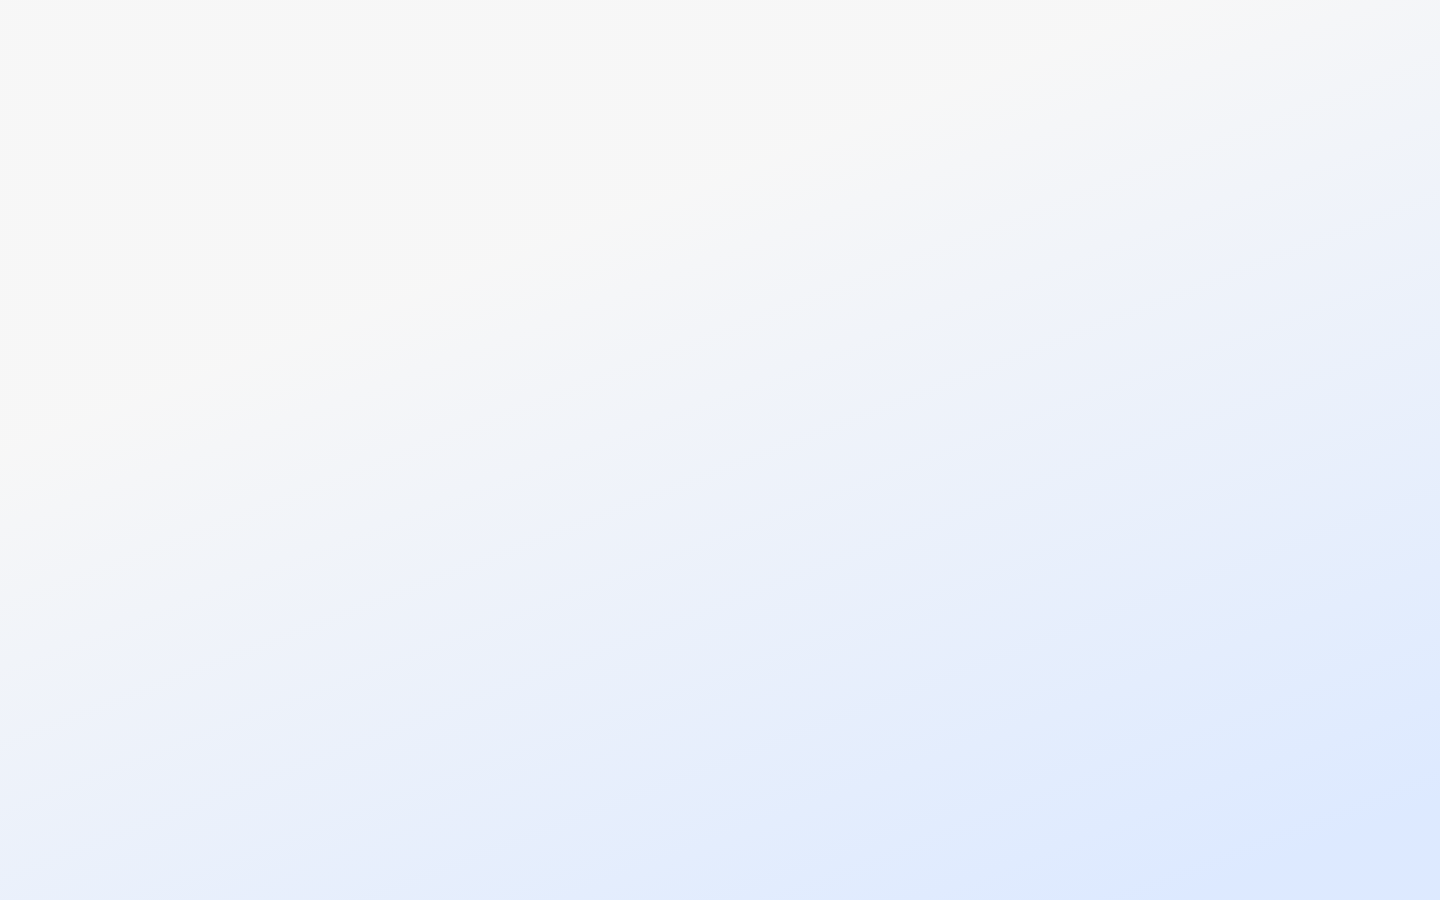
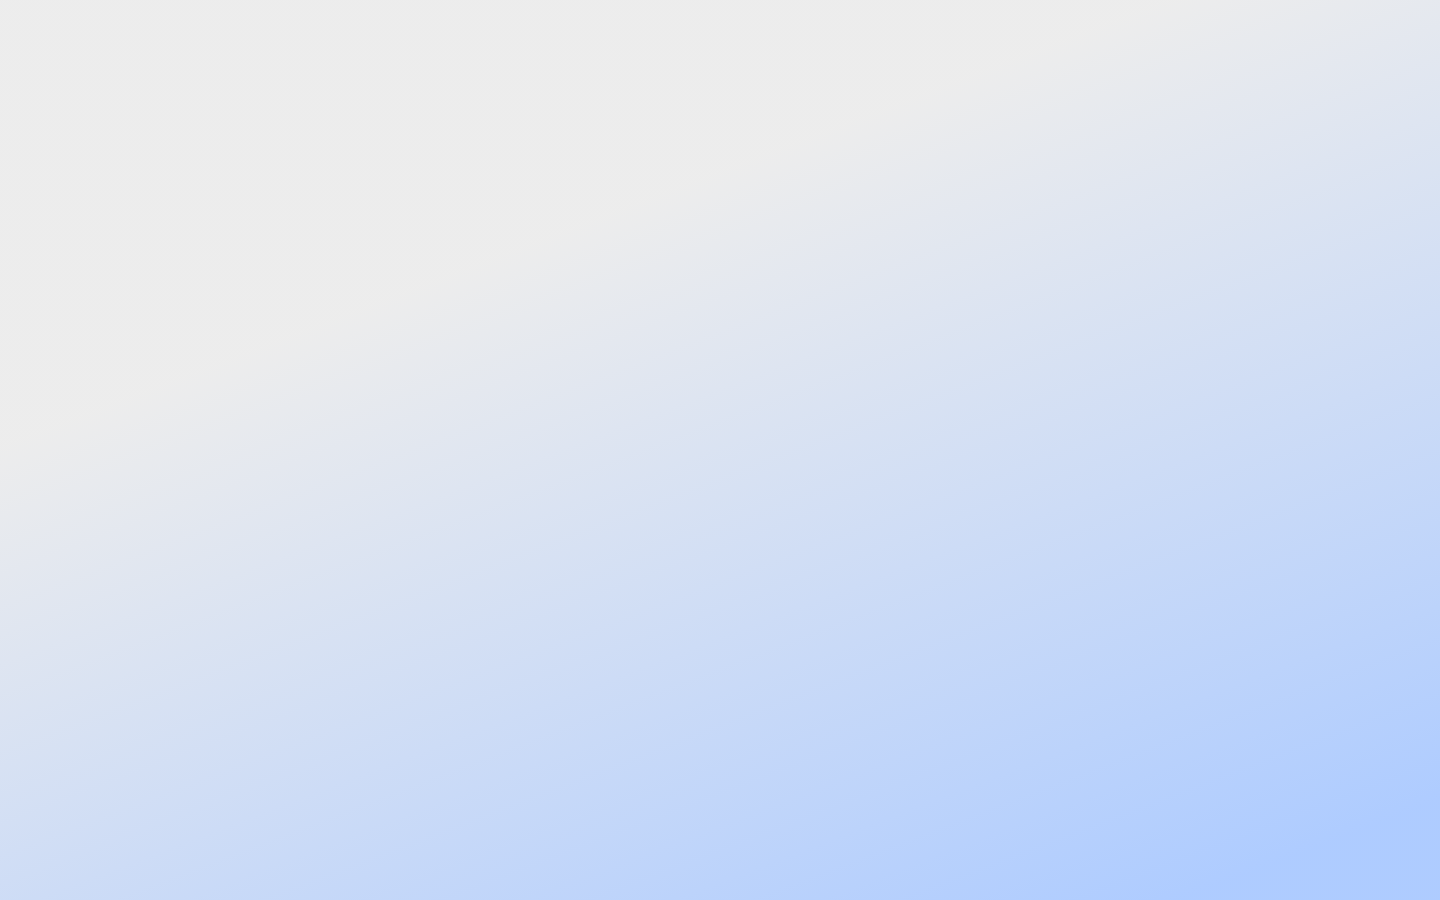
revisi

diff --git a/src/GUI/main_form.java b/src/GUI/main_form.java
@@ -272,6 +272,7 @@ public class main_form extends javax.swing.JFrame {
         field_ket = new javax.swing.JTextArea();
         btn_update = new javax.swing.JButton();
         btn_delete = new javax.swing.JButton();
+        jLabel1 = new javax.swing.JLabel();
 
         setDefaultCloseOperation(javax.swing.WindowConstants.EXIT_ON_CLOSE);
         getContentPane().setLayout(new org.netbeans.lib.awtextra.AbsoluteLayout());
@@ -800,43 +801,43 @@ public class main_form extends javax.swing.JFrame {
 
         field_id.setFont(new java.awt.Font("Consolas", 0, 18)); // NOI18N
         field_id.setEnabled(false);
-        edit_rekam.add(field_id, new org.netbeans.lib.awtextra.AbsoluteConstraints(160, 380, 160, -1));
+        edit_rekam.add(field_id, new org.netbeans.lib.awtextra.AbsoluteConstraints(260, 380, 160, -1));
 
         jLabel2.setFont(new java.awt.Font("Consolas", 1, 20)); // NOI18N
         jLabel2.setText("ID");
-        edit_rekam.add(jLabel2, new org.netbeans.lib.awtextra.AbsoluteConstraints(100, 380, -1, 30));
+        edit_rekam.add(jLabel2, new org.netbeans.lib.awtextra.AbsoluteConstraints(200, 380, -1, 30));
 
         jComboBox1.setFont(new java.awt.Font("Consolas", 1, 18)); // NOI18N
         jComboBox1.setModel(new javax.swing.DefaultComboBoxModel(new String[] { "Item 1", "Item 2", "Item 3", "Item 4" }));
-        edit_rekam.add(jComboBox1, new org.netbeans.lib.awtextra.AbsoluteConstraints(650, 470, 280, -1));
+        edit_rekam.add(jComboBox1, new org.netbeans.lib.awtextra.AbsoluteConstraints(830, 470, 280, -1));
 
         jLabel3.setFont(new java.awt.Font("Consolas", 1, 20)); // NOI18N
         jLabel3.setText("Deskripsi");
-        edit_rekam.add(jLabel3, new org.netbeans.lib.awtextra.AbsoluteConstraints(30, 470, -1, 30));
+        edit_rekam.add(jLabel3, new org.netbeans.lib.awtextra.AbsoluteConstraints(130, 470, -1, 30));
 
         jLabel4.setFont(new java.awt.Font("Consolas", 1, 20)); // NOI18N
         jLabel4.setText("Keterangan");
-        edit_rekam.add(jLabel4, new org.netbeans.lib.awtextra.AbsoluteConstraints(20, 610, -1, 30));
+        edit_rekam.add(jLabel4, new org.netbeans.lib.awtextra.AbsoluteConstraints(120, 610, -1, 30));
 
         field_jenis.setFont(new java.awt.Font("Consolas", 0, 18)); // NOI18N
         field_jenis.setEnabled(false);
-        edit_rekam.add(field_jenis, new org.netbeans.lib.awtextra.AbsoluteConstraints(650, 380, 160, -1));
+        edit_rekam.add(field_jenis, new org.netbeans.lib.awtextra.AbsoluteConstraints(830, 380, 160, -1));
 
         jLabel5.setFont(new java.awt.Font("Consolas", 1, 20)); // NOI18N
         jLabel5.setText("Tindakan");
-        edit_rekam.add(jLabel5, new org.netbeans.lib.awtextra.AbsoluteConstraints(520, 470, -1, 30));
+        edit_rekam.add(jLabel5, new org.netbeans.lib.awtextra.AbsoluteConstraints(700, 470, -1, 30));
 
         jLabel6.setFont(new java.awt.Font("Consolas", 1, 20)); // NOI18N
         jLabel6.setText("Jenis");
-        edit_rekam.add(jLabel6, new org.netbeans.lib.awtextra.AbsoluteConstraints(550, 380, -1, 30));
+        edit_rekam.add(jLabel6, new org.netbeans.lib.awtextra.AbsoluteConstraints(730, 380, -1, 30));
 
         jLabel7.setFont(new java.awt.Font("Consolas", 1, 20)); // NOI18N
         jLabel7.setText("Obat");
-        edit_rekam.add(jLabel7, new org.netbeans.lib.awtextra.AbsoluteConstraints(570, 570, -1, 30));
+        edit_rekam.add(jLabel7, new org.netbeans.lib.awtextra.AbsoluteConstraints(750, 570, -1, 30));
 
         jComboBox2.setFont(new java.awt.Font("Consolas", 1, 18)); // NOI18N
         jComboBox2.setModel(new javax.swing.DefaultComboBoxModel(new String[] { "Item 1", "Item 2", "Item 3", "Item 4" }));
-        edit_rekam.add(jComboBox2, new org.netbeans.lib.awtextra.AbsoluteConstraints(650, 570, 280, -1));
+        edit_rekam.add(jComboBox2, new org.netbeans.lib.awtextra.AbsoluteConstraints(830, 570, 280, -1));
 
         field_desc.setColumns(20);
         field_desc.setFont(new java.awt.Font("Consolas", 0, 18)); // NOI18N
@@ -844,7 +845,7 @@ public class main_form extends javax.swing.JFrame {
         field_desc.setRows(3);
         jScrollPane7.setViewportView(field_desc);
 
-        edit_rekam.add(jScrollPane7, new org.netbeans.lib.awtextra.AbsoluteConstraints(160, 470, 270, 90));
+        edit_rekam.add(jScrollPane7, new org.netbeans.lib.awtextra.AbsoluteConstraints(260, 470, 270, 90));
 
         field_ket.setColumns(20);
         field_ket.setFont(new java.awt.Font("Consolas", 0, 18)); // NOI18N
@@ -852,7 +853,7 @@ public class main_form extends javax.swing.JFrame {
         field_ket.setRows(3);
         jScrollPane8.setViewportView(field_ket);
 
-        edit_rekam.add(jScrollPane8, new org.netbeans.lib.awtextra.AbsoluteConstraints(160, 610, 270, 90));
+        edit_rekam.add(jScrollPane8, new org.netbeans.lib.awtextra.AbsoluteConstraints(260, 610, 270, 90));
 
         btn_update.setIcon(new javax.swing.ImageIcon(getClass().getResource("/assets/Component 13 – 2.png"))); // NOI18N
         btn_update.setBorder(null);
@@ -861,7 +862,7 @@ public class main_form extends javax.swing.JFrame {
                 btn_updateActionPerformed(evt);
             }
         });
-        edit_rekam.add(btn_update, new org.netbeans.lib.awtextra.AbsoluteConstraints(1090, 750, -1, -1));
+        edit_rekam.add(btn_update, new org.netbeans.lib.awtextra.AbsoluteConstraints(1110, 770, -1, -1));
 
         btn_delete.setIcon(new javax.swing.ImageIcon(getClass().getResource("/assets/Component 13 – 3.png"))); // NOI18N
         btn_delete.setBorder(null);
@@ -870,7 +871,10 @@ public class main_form extends javax.swing.JFrame {
                 btn_deleteActionPerformed(evt);
             }
         });
-        edit_rekam.add(btn_delete, new org.netbeans.lib.awtextra.AbsoluteConstraints(1260, 750, -1, -1));
+        edit_rekam.add(btn_delete, new org.netbeans.lib.awtextra.AbsoluteConstraints(1280, 770, -1, -1));
+
+        jLabel1.setIcon(new javax.swing.ImageIcon(getClass().getResource("/assets/bg.png"))); // NOI18N
+        edit_rekam.add(jLabel1, new org.netbeans.lib.awtextra.AbsoluteConstraints(0, 0, 1440, 850));
 
         addition.add(edit_rekam, "card2");
 
@@ -1039,7 +1043,6 @@ public class main_form extends javax.swing.JFrame {
         int row = jTable1.getSelectedRow();
         execRkm = new ExecuteRekamMedis();
         selRkm = execRkm.getItemRekam(Integer.valueOf(jTable1.getValueAt(row, 0).toString()));
-        System.out.println(selRkm.toString());
         field_id.setText(jTable1.getValueAt(row, 0).toString());
         field_ket.setText(jTable1.getValueAt(row, 3).toString());
         field_jenis.setText(jTable1.getValueAt(row, 1).toString());
@@ -1209,6 +1212,7 @@ public class main_form extends javax.swing.JFrame {
     private javax.swing.JButton jButton6;
     private javax.swing.JComboBox jComboBox1;
     private javax.swing.JComboBox jComboBox2;
+    private javax.swing.JLabel jLabel1;
     private javax.swing.JLabel jLabel2;
     private javax.swing.JLabel jLabel3;
     private javax.swing.JLabel jLabel4;
